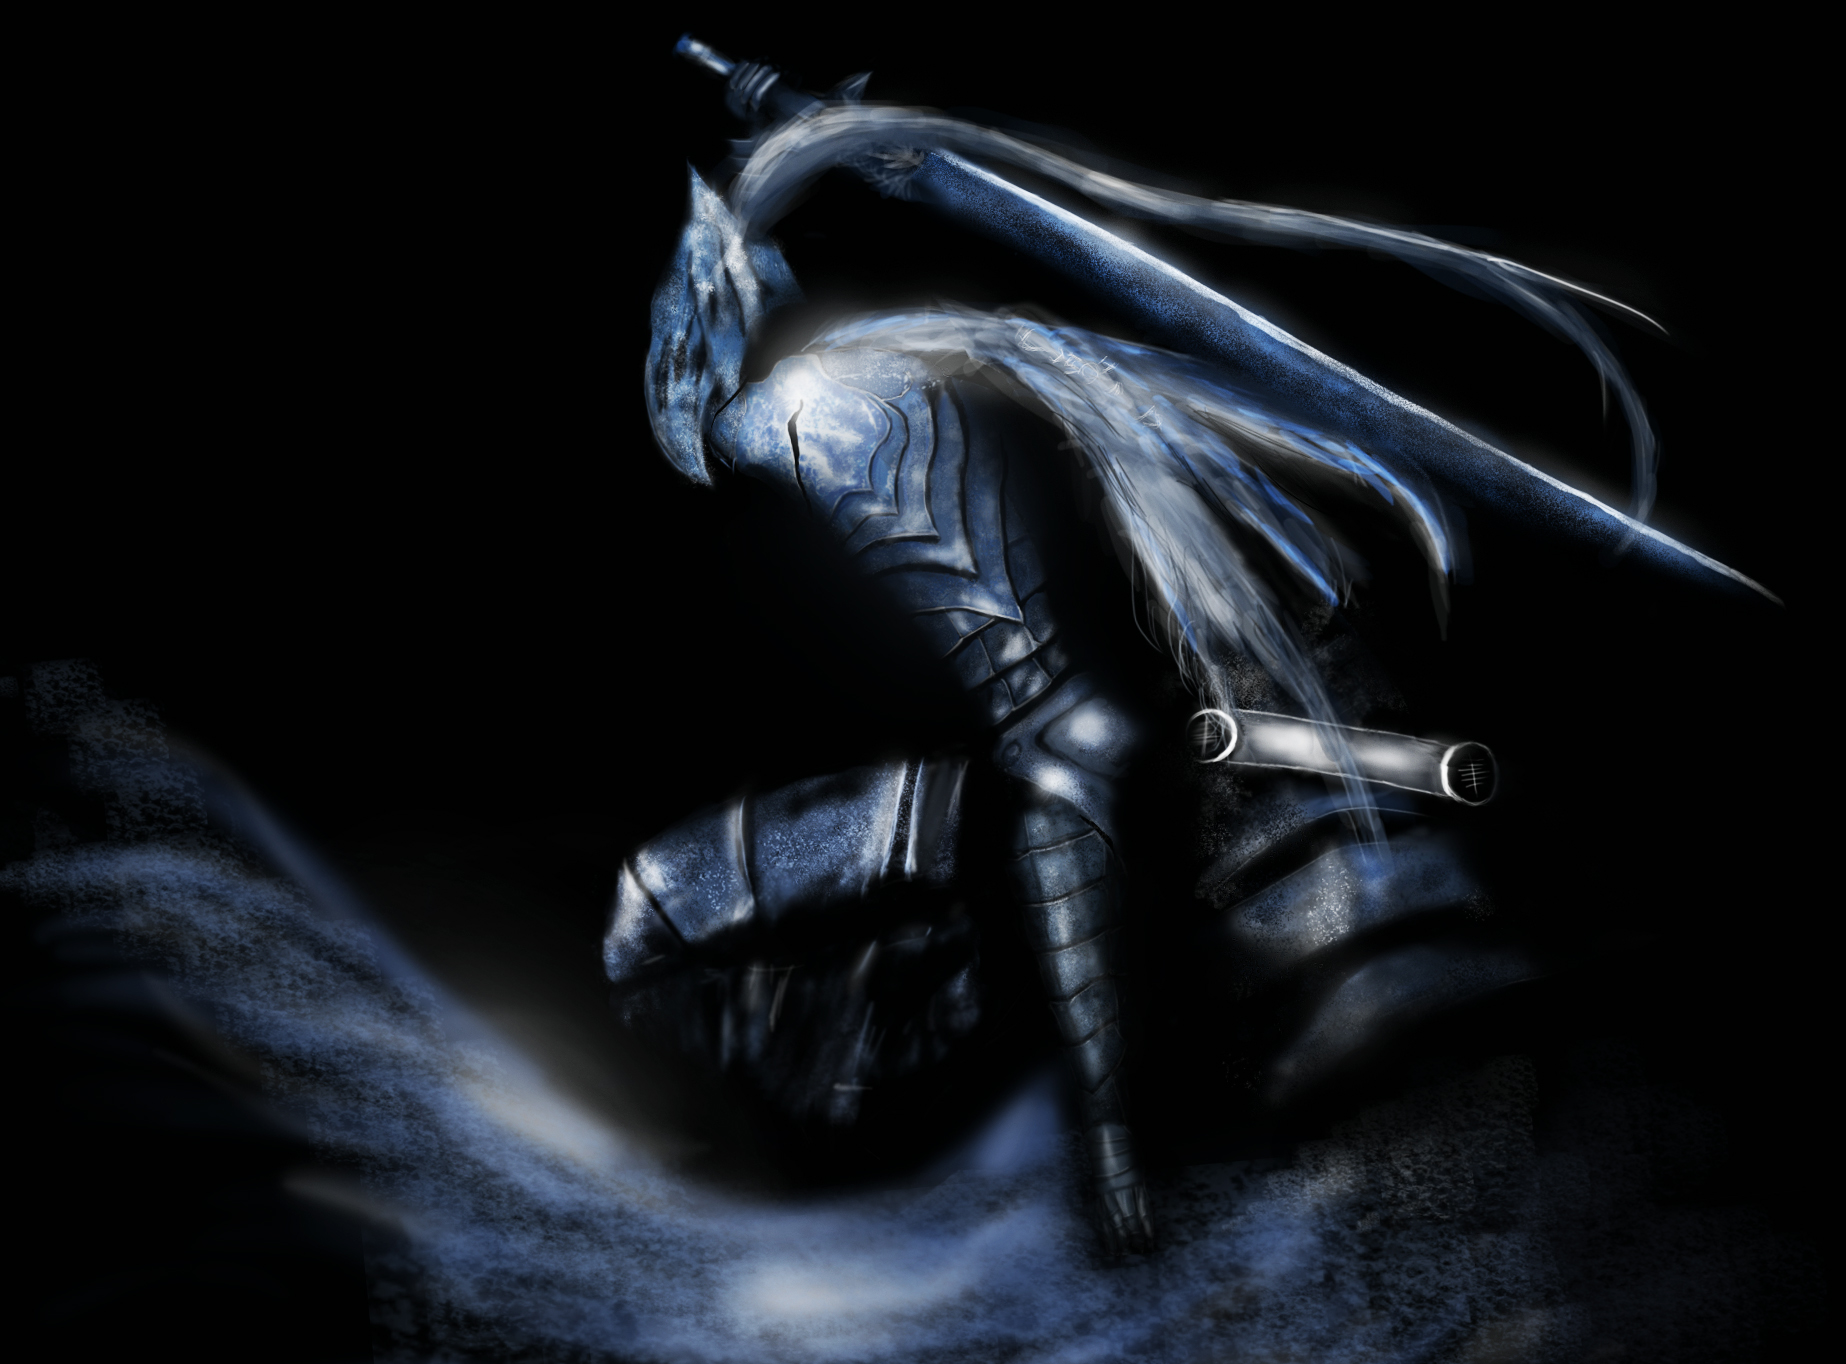
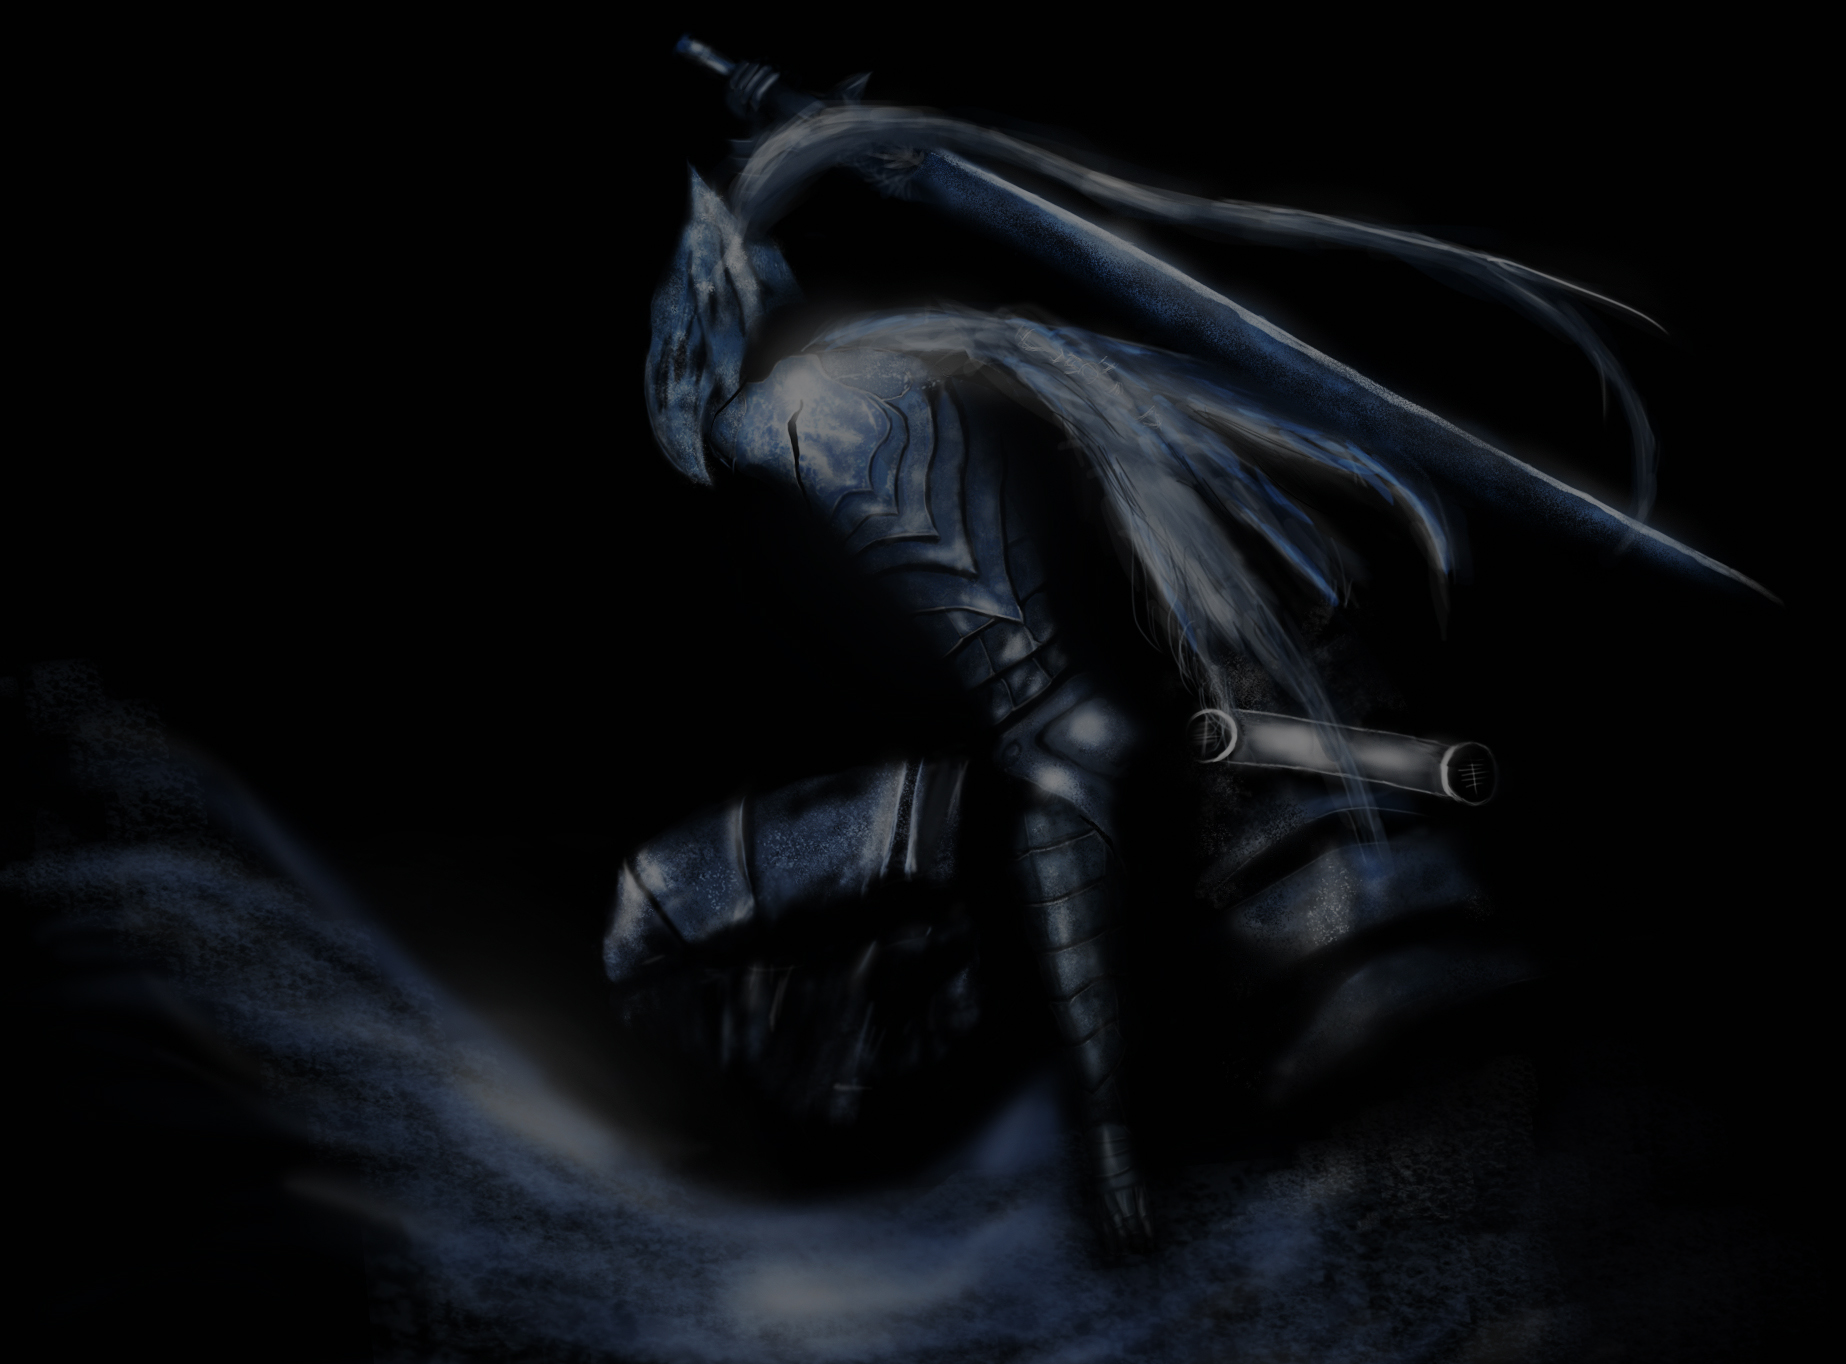
Greyed out the background Image of homepage + Revamped background image

diff --git a/HTML/css/home.css b/HTML/css/home.css
@@ -14,7 +14,7 @@
 
 body {
   margin: 0em;
-  background-color: #FFFFFF;
+  background-color: #EFEFEF;
   /* background-image: url("../img/chair_2.jpg"); */
   background-repeat: no-repeat;
   background-size: cover;
@@ -62,7 +62,9 @@ body {
 
 .realBio {
   position: relative;
-  background-color: rgba(230, 230, 230, 0.5);
+  background-color: rgba(255, 255, 255, 1);
+  box-shadow: 0px 0px 18px 0px #888888;
+  /* background-color: rgba(230, 230, 230, 0.5); */
   height: 15em;
   align-items: center;
   padding: 4.0em;

diff --git a/HTML/css/main.css b/HTML/css/main.css
@@ -86,6 +86,7 @@ body {
   /* justify-content: center; */
   /* align-self: stretch; */
   transition: all ease .5s;
+  /* text-shadow: 8px 6px 8px #FFFFFFF; */
 }
 
 .item1 a:hover {
